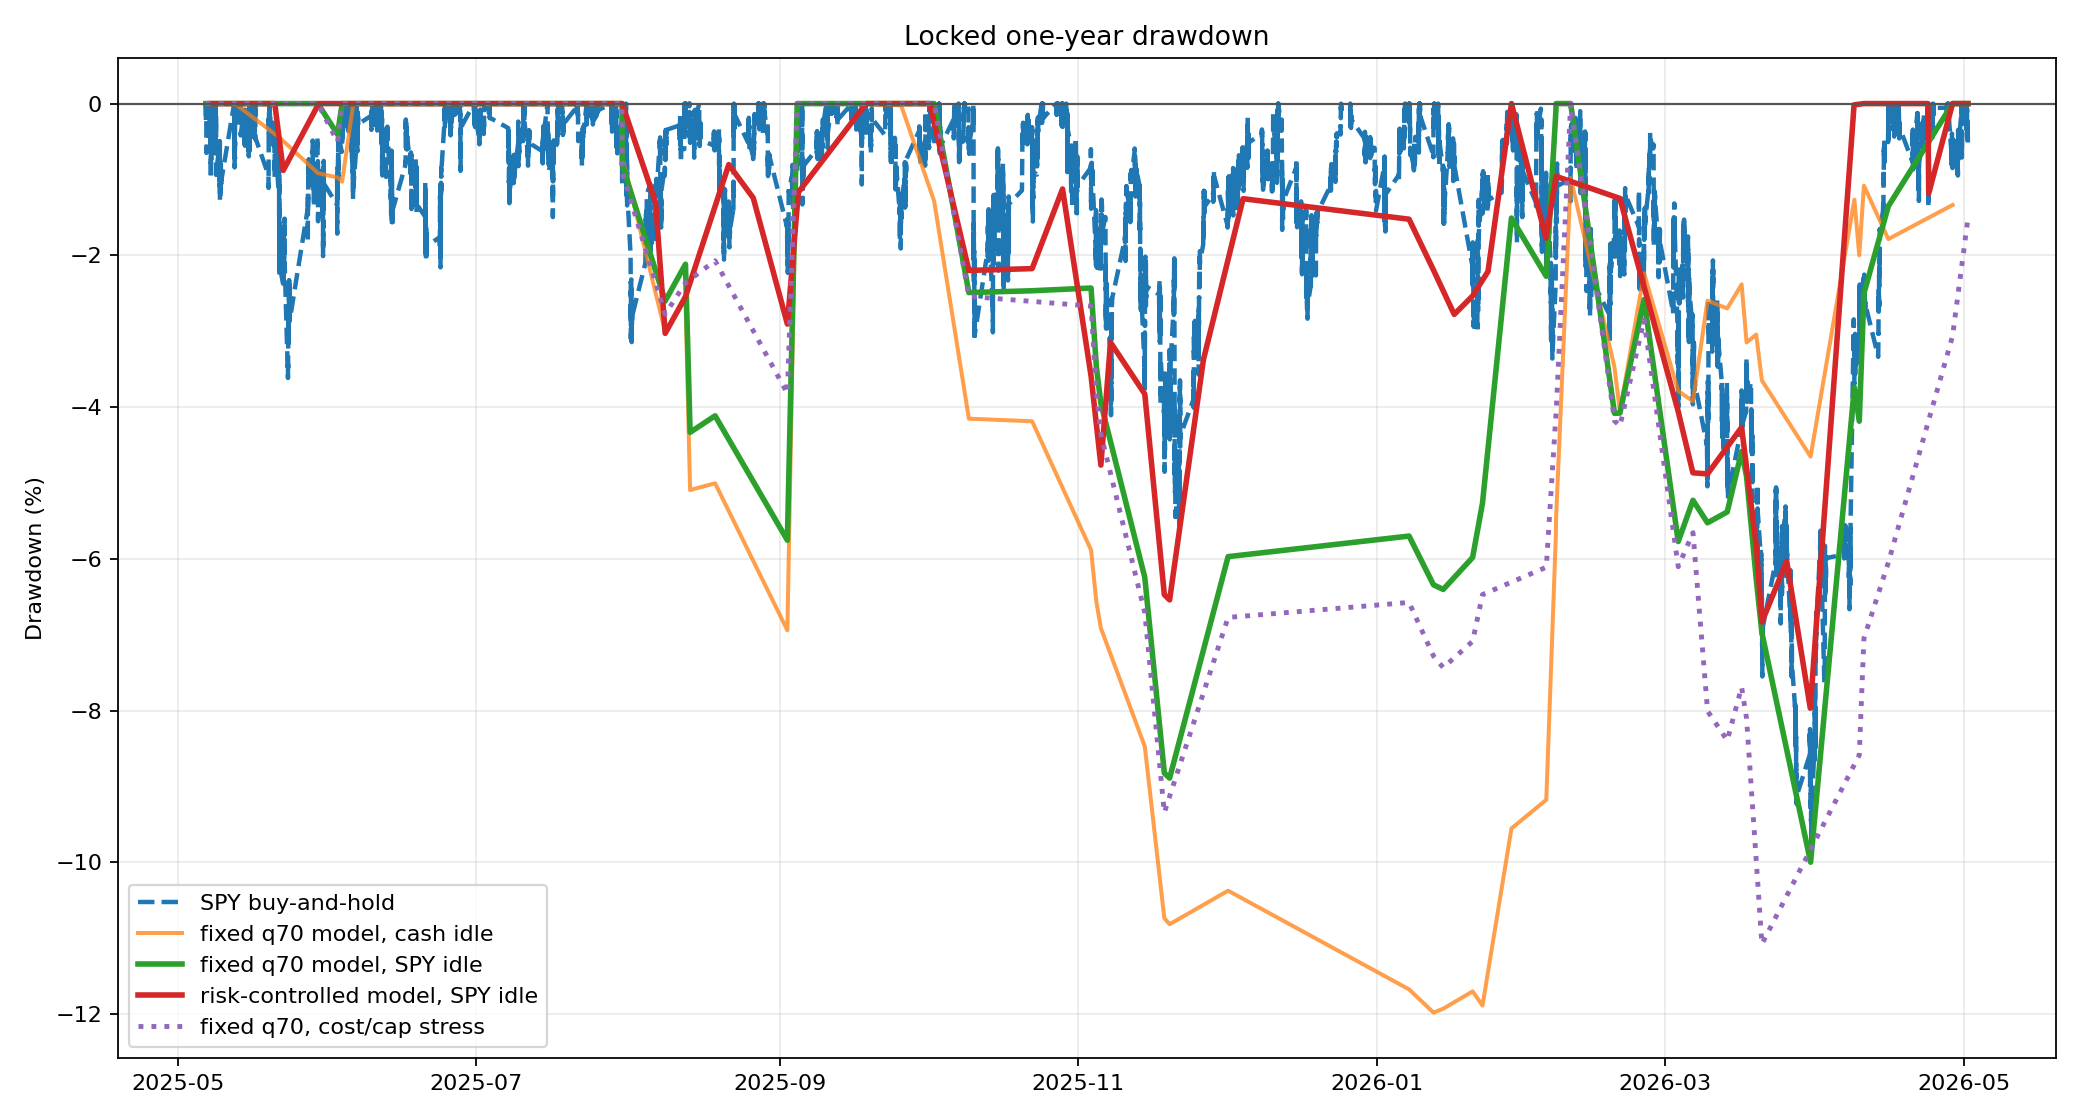
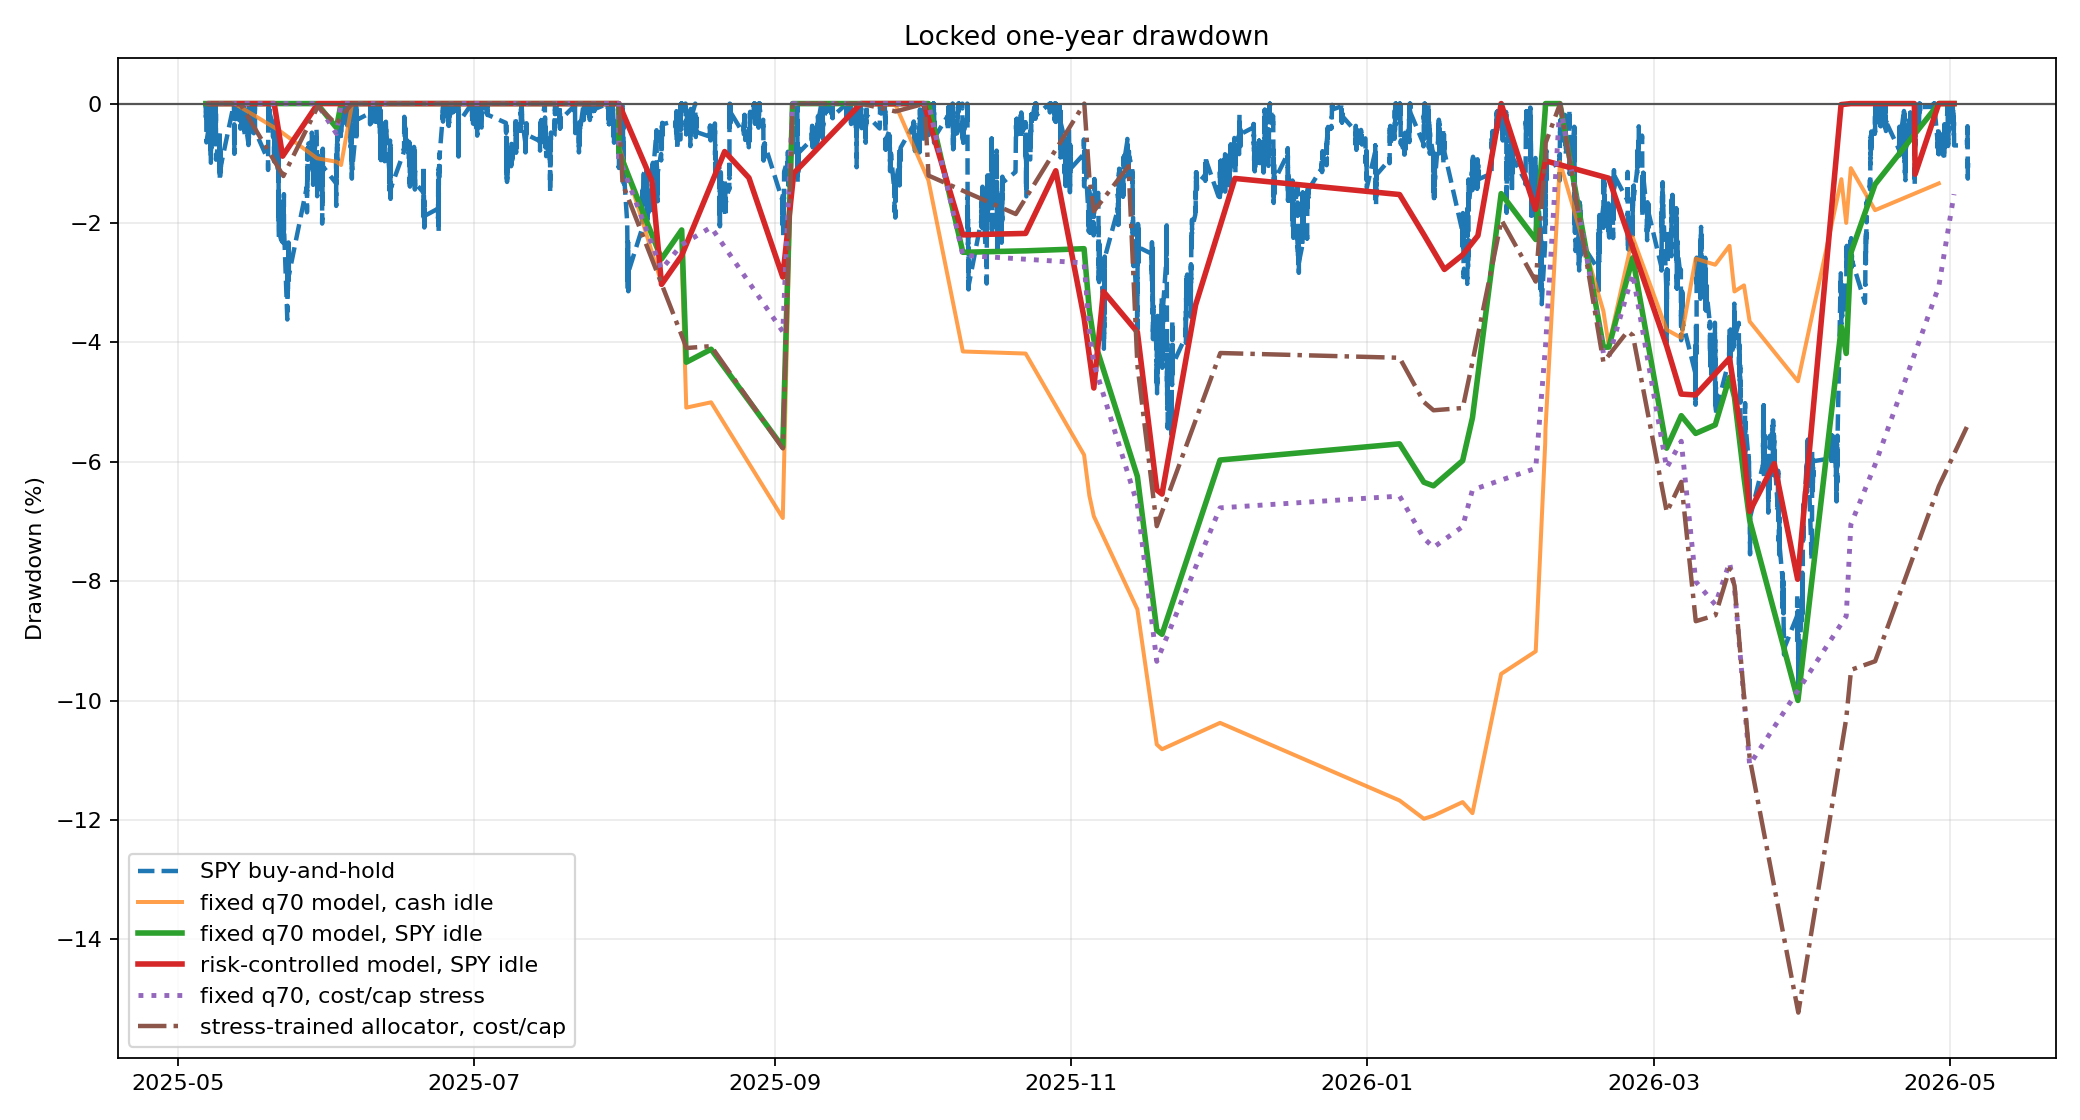
world-model: train stress-adjusted allocator

diff --git a/scripts/plot_tradable_locked_eval.py b/scripts/plot_tradable_locked_eval.py
@@ -41,16 +41,26 @@ def load_optional_curve(path: Path | None) -> tuple[pd.DataFrame, dict] | None:
     return load_curve(path)
 
 
-def plot_equity(spy_idle_json: Path, cash_idle_json: Path, risk_json: Path | None, stress_json: Path | None, output: Path) -> None:
+def plot_equity(
+    spy_idle_json: Path,
+    cash_idle_json: Path,
+    risk_json: Path | None,
+    stress_json: Path | None,
+    stress_trained_json: Path | None,
+    output: Path,
+) -> None:
     spy_idle, payload_spy = load_curve(spy_idle_json)
     cash_idle, _ = load_curve(cash_idle_json)
     risk = load_optional_curve(risk_json)
     stress = load_optional_curve(stress_json)
+    stress_trained = load_optional_curve(stress_trained_json)
     curves = [spy_idle, cash_idle]
     if risk is not None:
         curves.append(risk[0])
     if stress is not None:
         curves.append(stress[0])
+    if stress_trained is not None:
+        curves.append(stress_trained[0])
     start = min(curve["timestamp"].min() for curve in curves)
     end = max(curve["timestamp"].max() for curve in curves)
     starting = float(payload_spy["sequential_portfolio"]["starting_equity"])
@@ -66,6 +76,9 @@ def plot_equity(spy_idle_json: Path, cash_idle_json: Path, risk_json: Path | Non
     if stress is not None:
         stress_curve, _ = stress
         plt.plot(stress_curve["timestamp"], stress_curve["equity"], linewidth=2.3, linestyle=":", label="fixed q70, cost/cap stress")
+    if stress_trained is not None:
+        stress_trained_curve, _ = stress_trained
+        plt.plot(stress_trained_curve["timestamp"], stress_trained_curve["equity"], linewidth=2.2, linestyle="-.", label="stress-trained allocator, cost/cap")
     plt.axhline(starting, color="#555555", linewidth=1.0)
     plt.title("Locked one-year sequential tradable simulation")
     plt.ylabel("Portfolio equity ($)")
@@ -76,16 +89,26 @@ def plot_equity(spy_idle_json: Path, cash_idle_json: Path, risk_json: Path | Non
     plt.close()
 
 
-def plot_drawdown(spy_idle_json: Path, cash_idle_json: Path, risk_json: Path | None, stress_json: Path | None, output: Path) -> None:
+def plot_drawdown(
+    spy_idle_json: Path,
+    cash_idle_json: Path,
+    risk_json: Path | None,
+    stress_json: Path | None,
+    stress_trained_json: Path | None,
+    output: Path,
+) -> None:
     spy_idle, payload_spy = load_curve(spy_idle_json)
     cash_idle, _ = load_curve(cash_idle_json)
     risk = load_optional_curve(risk_json)
     stress = load_optional_curve(stress_json)
+    stress_trained = load_optional_curve(stress_trained_json)
     curves = [spy_idle, cash_idle]
     if risk is not None:
         curves.append(risk[0])
     if stress is not None:
         curves.append(stress[0])
+    if stress_trained is not None:
+        curves.append(stress_trained[0])
     start = min(curve["timestamp"].min() for curve in curves)
     end = max(curve["timestamp"].max() for curve in curves)
     starting = float(payload_spy["sequential_portfolio"]["starting_equity"])
@@ -101,6 +124,9 @@ def plot_drawdown(spy_idle_json: Path, cash_idle_json: Path, risk_json: Path | N
     if stress is not None:
         stress_curve, _ = stress
         plt.plot(stress_curve["timestamp"], 100 * drawdown(stress_curve["equity"]), linewidth=2.2, linestyle=":", label="fixed q70, cost/cap stress")
+    if stress_trained is not None:
+        stress_trained_curve, _ = stress_trained
+        plt.plot(stress_trained_curve["timestamp"], 100 * drawdown(stress_trained_curve["equity"]), linewidth=2.0, linestyle="-.", label="stress-trained allocator, cost/cap")
     plt.axhline(0, color="#555555", linewidth=1.0)
     plt.title("Locked one-year drawdown")
     plt.ylabel("Drawdown (%)")
@@ -138,6 +164,7 @@ def main() -> None:
     parser.add_argument("--cash-idle-json", default="checkpoints/world_model/tradable_locked1y_intraday120_q80_hybrid_entryonly.json")
     parser.add_argument("--risk-json", default="checkpoints/world_model/tradable_locked1y_intraday120_q80_calibrated_dd18_spyidle.json")
     parser.add_argument("--stress-json", default="checkpoints/world_model/tradable_locked1y_intraday120_q80_fixed_cost10_cap3_cd10_spyidle.json")
+    parser.add_argument("--stress-trained-json", default="checkpoints/world_model/tradable_locked1y_intraday120_q80_stress10_fixed_cost10_cap3_cd10_spyidle.json")
     parser.add_argument("--output-dir", default="docs/world_model_charts")
     args = parser.parse_args()
 
@@ -147,8 +174,9 @@ def main() -> None:
     cash_idle_json = Path(args.cash_idle_json)
     risk_json = Path(args.risk_json) if args.risk_json else None
     stress_json = Path(args.stress_json) if args.stress_json else None
-    plot_equity(spy_idle_json, cash_idle_json, risk_json, stress_json, output / "locked1y_tradable_equity.png")
-    plot_drawdown(spy_idle_json, cash_idle_json, risk_json, stress_json, output / "locked1y_tradable_drawdown.png")
+    stress_trained_json = Path(args.stress_trained_json) if args.stress_trained_json else None
+    plot_equity(spy_idle_json, cash_idle_json, risk_json, stress_json, stress_trained_json, output / "locked1y_tradable_equity.png")
+    plot_drawdown(spy_idle_json, cash_idle_json, risk_json, stress_json, stress_trained_json, output / "locked1y_tradable_drawdown.png")
     plot_trade_returns(risk_json if risk_json and risk_json.exists() else spy_idle_json, output / "locked1y_trade_returns.png")
     print(f"Wrote locked tradable charts to {output}")
 

diff --git a/train_allocator.py b/train_allocator.py
@@ -101,6 +101,10 @@ class AllocatorConfig:
     max_horizon_bars: int
     top_quantile: float
     feature_mode: str
+    utility_mode: str
+    extra_roundtrip_bps: float
+    drawdown_penalty: float
+    volatility_penalty: float
     seed: int
     device: str
 
@@ -149,19 +153,53 @@ def split_masks(df: pd.DataFrame, val_fraction: float, val_gap_days: float) -> t
     return train_mask, val_mask
 
 
-def add_targets(df: pd.DataFrame, top_quantile: float) -> pd.DataFrame:
+def _stress_adjusted_return(df: pd.DataFrame, extra_roundtrip_bps: float) -> pd.Series:
+    target_frac = df["target_position_frac"].astype(float) if "target_position_frac" in df.columns else 1.0
+    extra_cost = target_frac * max(0.0, extra_roundtrip_bps) * 1e-4
+    return df["portfolio_return"].astype(float) - extra_cost
+
+
+def add_targets(
+    df: pd.DataFrame,
+    top_quantile: float,
+    utility_mode: str = "default",
+    extra_roundtrip_bps: float = 0.0,
+    drawdown_penalty: float = 0.25,
+    volatility_penalty: float = 0.10,
+) -> pd.DataFrame:
     out = df.copy()
     time_col = "decision_timestamp" if "decision_timestamp" in out.columns else "timestamp"
     group_key = out[time_col].astype(str) + "|" + out["horizon_bars"].astype(str)
-    rank_pct = out.groupby(group_key)["portfolio_return"].rank(pct=True, method="average")
+    if utility_mode == "default":
+        target_return = out["portfolio_return"].astype(float)
+        alpha = out["future_alpha_vs_spy"].astype(float)
+        profit_label = out["profit_label"].astype(float)
+        beat_label = out["beat_spy_label"].astype(float)
+        dd_penalty = 0.25
+        vol_penalty = 0.10
+    elif utility_mode == "stress_adjusted":
+        target_return = _stress_adjusted_return(out, extra_roundtrip_bps)
+        alpha = target_return - out["future_spy_return"].astype(float)
+        profit_label = (target_return > 0.0).astype(float)
+        beat_label = (alpha > 0.0).astype(float)
+        dd_penalty = drawdown_penalty
+        vol_penalty = volatility_penalty
+    else:
+        raise ValueError(f"unknown utility mode: {utility_mode}")
+
+    out["allocator_target_return"] = target_return.astype(np.float32)
+    out["allocator_target_alpha"] = alpha.astype(np.float32)
+    out["allocator_target_profit_label"] = profit_label.astype(np.float32)
+    out["allocator_target_beat_spy_label"] = beat_label.astype(np.float32)
+    rank_pct = out.assign(_allocator_target_return=target_return).groupby(group_key)["_allocator_target_return"].rank(pct=True, method="average")
     out["allocator_top_label"] = (rank_pct >= top_quantile).astype(np.float32)
     out["allocator_utility"] = (
-        out["portfolio_return"].clip(-1.0, 3.0)
-        + 0.35 * out["future_alpha_vs_spy"].clip(-1.0, 3.0)
-        + 0.15 * out["profit_label"]
-        + 0.25 * out["beat_spy_label"]
-        + 0.25 * out["max_drawdown"].clip(-1.0, 0.0)
-        - 0.10 * out["path_vol"].clip(0.0, 0.20)
+        target_return.clip(-1.0, 3.0)
+        + 0.35 * alpha.clip(-1.0, 3.0)
+        + 0.15 * profit_label
+        + 0.25 * beat_label
+        + dd_penalty * out["max_drawdown"].clip(-1.0, 0.0)
+        - vol_penalty * out["path_vol"].clip(0.0, 0.20)
     ).astype(np.float32)
     return out
 
@@ -301,7 +339,14 @@ def train(config: AllocatorConfig) -> dict:
 
     train_df = filter_frame(load_frame(Path(config.train_data), config.limit_rows, seed=config.seed), config.min_horizon_bars, config.max_horizon_bars)
     train_scored = predict(train_df, world_ckpt, device=device, batch_size=config.batch_size)
-    train_scored = add_targets(train_scored, config.top_quantile)
+    train_scored = add_targets(
+        train_scored,
+        config.top_quantile,
+        utility_mode=config.utility_mode,
+        extra_roundtrip_bps=config.extra_roundtrip_bps,
+        drawdown_penalty=config.drawdown_penalty,
+        volatility_penalty=config.volatility_penalty,
+    )
     train_mask, val_mask = split_masks(train_scored, config.val_fraction, config.val_gap_days)
     mats = make_matrices(train_scored, train_mask, feature_mode=config.feature_mode)
 
@@ -391,6 +436,10 @@ def train(config: AllocatorConfig) -> dict:
         "min_horizon_bars": int(config.min_horizon_bars),
         "max_horizon_bars": int(config.max_horizon_bars),
         "feature_mode": config.feature_mode,
+        "utility_mode": config.utility_mode,
+        "extra_roundtrip_bps": float(config.extra_roundtrip_bps),
+        "drawdown_penalty": float(config.drawdown_penalty),
+        "volatility_penalty": float(config.volatility_penalty),
         "device": device,
         "best_epoch": int(best_epoch),
         "best_val_loss": float(best_loss),
@@ -423,6 +472,10 @@ def main() -> None:
     parser.add_argument("--max-horizon-bars", type=int, default=0)
     parser.add_argument("--top-quantile", type=float, default=0.80)
     parser.add_argument("--feature-mode", choices=["compact", "market"], default="compact")
+    parser.add_argument("--utility-mode", choices=["default", "stress_adjusted"], default="default")
+    parser.add_argument("--extra-roundtrip-bps", type=float, default=0.0)
+    parser.add_argument("--drawdown-penalty", type=float, default=0.25)
+    parser.add_argument("--volatility-penalty", type=float, default=0.10)
     parser.add_argument("--seed", type=int, default=0)
     parser.add_argument("--device", default="auto")
     args = parser.parse_args()

diff --git a/evaluate_tradable_allocator.py b/evaluate_tradable_allocator.py
@@ -44,6 +44,7 @@ def entry_candidates(scored: pd.DataFrame) -> pd.DataFrame:
         (scored["current_position_frac"].astype(float) == 0.0)
         & (scored["action"].astype(str) == "buy")
         & (scored["target_position_frac"].astype(float) > 0.0)
+        & (~scored["symbol"].astype(str).str.startswith("^"))
     ].copy()
 
 

diff --git a/docs/world_model_dataset.md b/docs/world_model_dataset.md
@@ -71,12 +71,15 @@ Friction and concentration stress, added after the first locked result:
 | calibrated risk rule + max 3 trades/symbol + 10-day cooldown | +19.2%, -11.9% DD, 42 trades | below SPY; concentration controls hurt |
 | calibrated risk rule + cost + cap + cooldown | no calibration rule survived the -18% DD cap | reject |
 | fixed q70 + extra 10 bps + max 3 trades/symbol + 10-day cooldown | +42.7%, -11.1% DD, 51 trades | survives SPY, but active hit rate is weak |
+| stress-trained allocator, fixed q70, same stress | +35.8%, -15.2% DD, 55 trades | beats SPY but not the old stressed survivor |
+| stress-trained allocator, calibrated rule, same stress | +27.3%, -12.9% DD, 44 trades, 59.1% beat-SPY | cleaner active quality, slightly below SPY |
 
 The stress result changes the practical reading: the fixed q70 overlay is the
-best friction-stressed survivor, while the calibrated risk rule is cleaner on
-un-stressed trade quality but too fragile under added costs/concentration
-limits. The next improvement should train the allocator objective directly for
-friction-stressed sequential utility instead of selecting rules after the fact.
+best friction-stressed survivor. The first stress-trained allocator improves
+trade quality but does not improve locked portfolio return, so it is diagnostic
+rather than the new champion. A tradability bug was also fixed here: entry-only
+evaluation now excludes caret-prefixed symbols such as `^VIX`, which are useful
+market context but should not be treated as normal stock buy candidates.
 
 The important caveat: the policy only beats SPY when idle capital remains in
 SPY. If idle capital sits in cash, the same active stock trades return +21.7%,
@@ -268,6 +271,28 @@ Locked allocator and tradable evaluation commands:
   --feature-mode compact \
   --device mps
 
+.venv/bin/python train_allocator.py \
+  --train-data data/world_model/locked5y_train_intraday120 \
+  --test-data data/world_model/locked1y_test_intraday120 \
+  --world-checkpoint checkpoints/world_model/world_model_locked5y_intraday120_actionkey.pt \
+  --output checkpoints/world_model/allocator_locked5y_intraday120_q80_stress10.pt \
+  --epochs 6 \
+  --batch-size 32768 \
+  --hidden-dim 192 \
+  --n-layers 3 \
+  --dropout 0.25 \
+  --lr 1e-4 \
+  --weight-decay 1e-3 \
+  --val-gap-days 14 \
+  --max-horizon-bars 120 \
+  --top-quantile 0.80 \
+  --feature-mode compact \
+  --utility-mode stress_adjusted \
+  --extra-roundtrip-bps 10 \
+  --drawdown-penalty 0.50 \
+  --volatility-penalty 0.25 \
+  --device mps
+
 .venv/bin/python evaluate_tradable_allocator.py \
   --calibration-data data/world_model/locked5y_train_intraday120 \
   --test-data data/world_model/locked1y_test_intraday120 \
@@ -341,15 +366,16 @@ The main iterations and current decisions:
 | Calibration-only risk rule search | uncapped search returned +18.9%, -15.0% DD on locked year | rejected overfit |
 | Calibration-only risk rule search with -18% DD cap | +39.2%, -8.0% DD, 52.6% profit rate, 57.9% beat-SPY | current paper-trading candidate |
 | Friction/concentration stress | fixed q70 survives at +42.7%; calibrated risk rule falls below SPY | next training objective must include frictions |
+| Stress-adjusted allocator target | +35.8% fixed, +27.3% calibrated under same stress | improves hit rate, not return champion |
 
 The most important open weakness is reliability of the active trades. The
 locked winner has strong portfolio return, but only 44.8% of active trades are
 profitable and one large CIEN trade contributes materially. The risk-controlled
 candidate improves this to 52.6% profitable trades and 57.9% beat-SPY trades,
-but the stress tests show this rule is fragile once costs and concentration
-limits are added. The next useful work is still paper trading, liquidity/order
-filters, single-trade risk caps, and additional locked years or rolling yearly
-tests.
+and the stress-trained calibrated allocator reaches 59.1% beat-SPY trades, but
+the stress tests show these cleaner rules give up too much portfolio return.
+The next useful work is still paper trading, liquidity/order filters,
+single-trade risk caps, and additional locked years or rolling yearly tests.
 
 This dataset is the first step away from the old forecaster architecture.
 Instead of training only:

diff --git a/README.md b/README.md
@@ -121,6 +121,10 @@ drawdown, 52.6% profitable trades, and 57.9% active beat-SPY rate. This is
 not yet robust to all frictions: with extra 10 bps active-trade cost plus a
 3-trade-per-symbol cap and 10-day symbol cooldown, the fixed q70 overlay still
 returns +42.7%, but the calibrated risk rule falls below SPY. This is
+now followed by a stress-adjusted allocator experiment: it improves hit rates
+but not portfolio return, reaching +35.8% fixed and +27.3% calibrated under the
+same friction/concentration stress. Caret-prefixed market symbols such as `^VIX`
+are excluded from entry trades.
 still a research simulation, not a live guarantee.
 
 Read the full model creation notes, features, training settings, attempts, and
